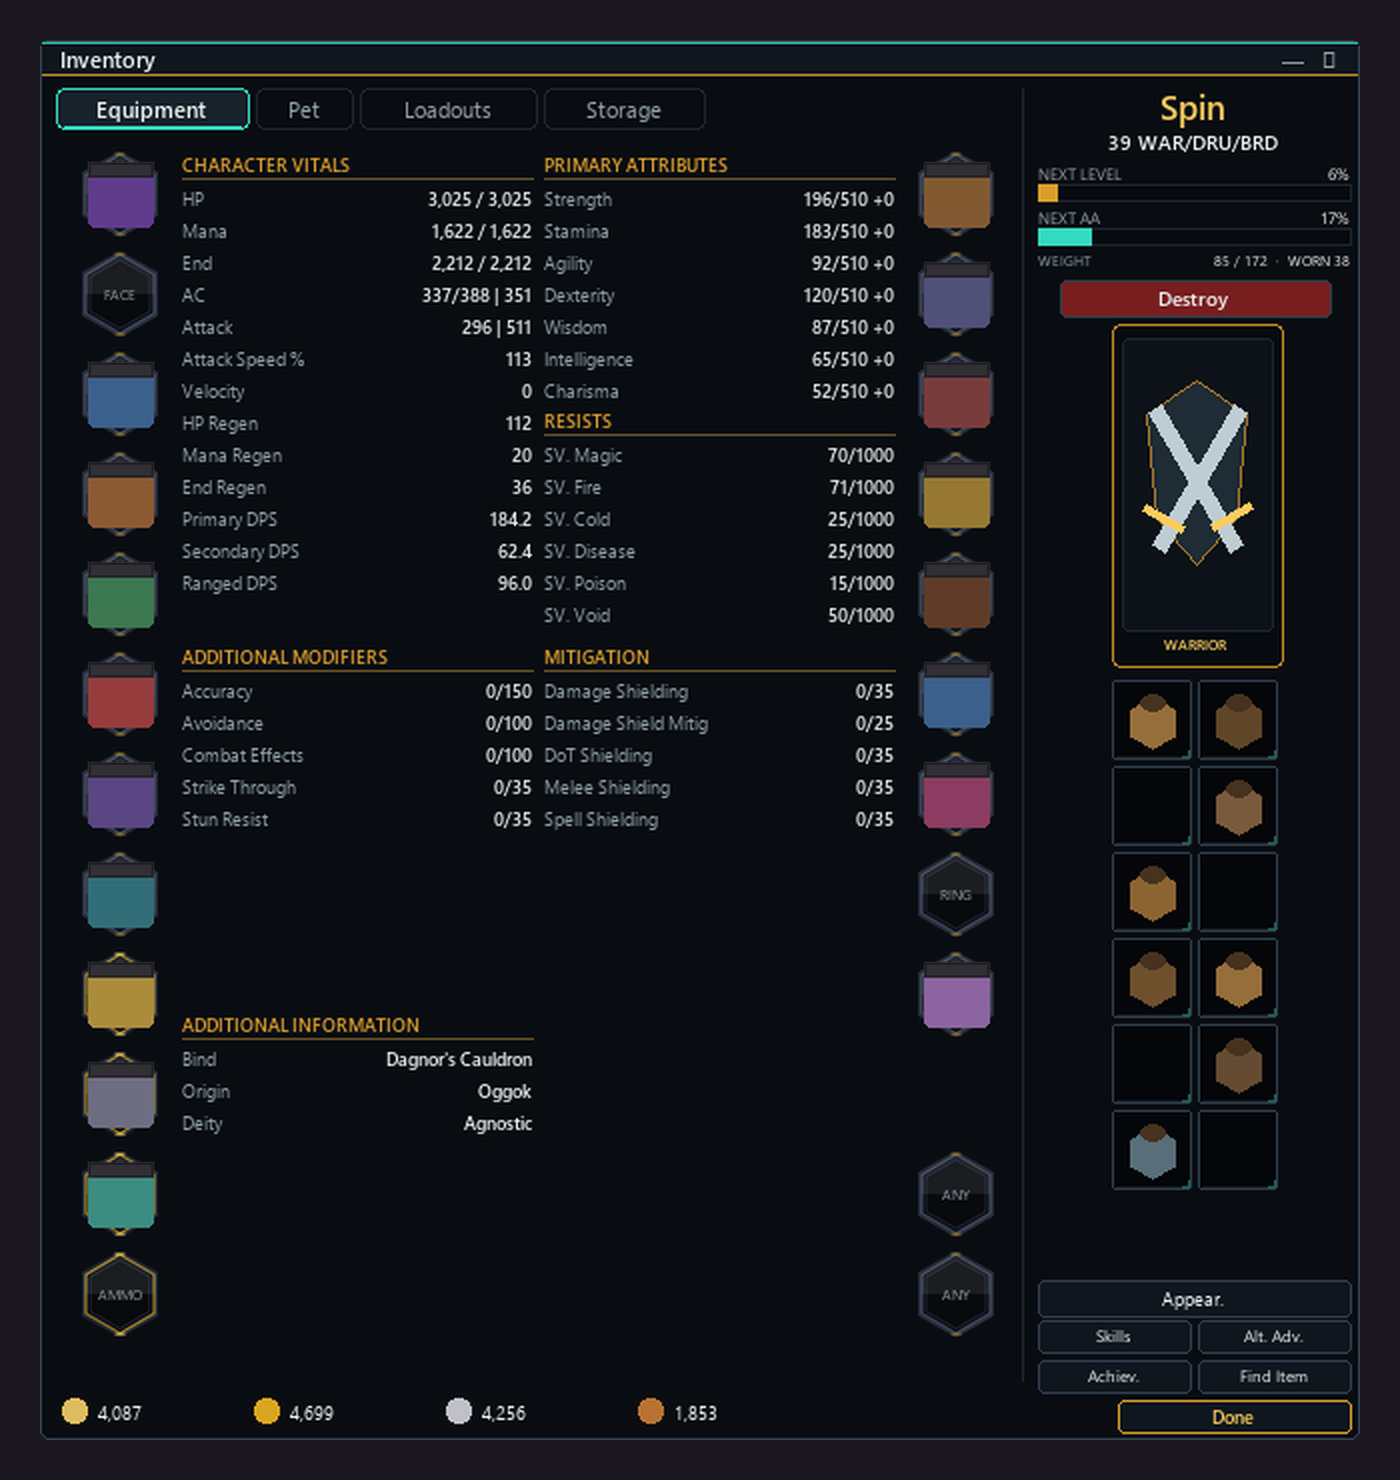
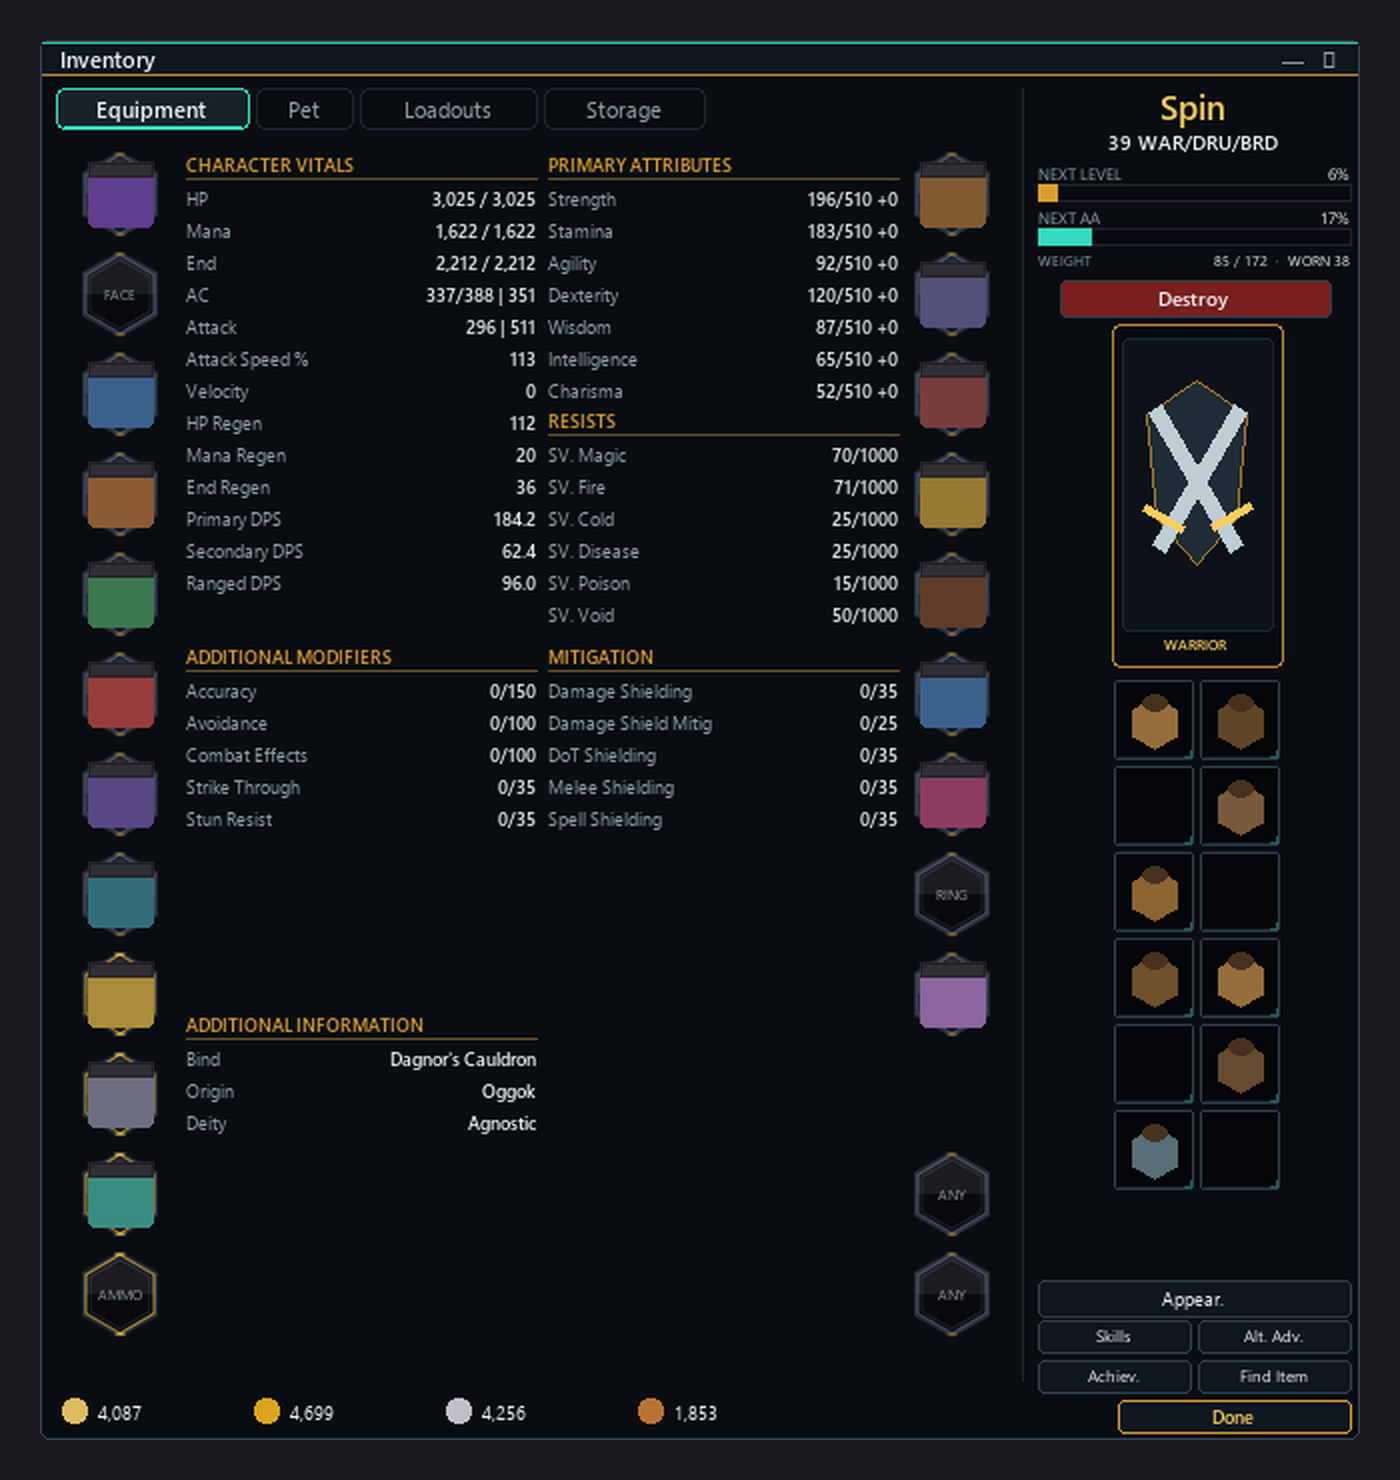
Refine inventory rail alignment

diff --git a/tools/audit_spinui.py b/tools/audit_spinui.py
@@ -346,8 +346,6 @@ def audit_inventory_geometry() -> None:
 
     if (child_int(class_anim, "Size/CX"), child_int(class_anim, "Size/CY")) != (75, 142):
         fail("native class artwork must remain 75x142")
-    if (child_int(view, "Size/CX"), child_int(view, "Size/CY")) != (85, 171):
-        fail("class artwork viewport must remain 85x171")
     if child_int(window, "Size/CX") != 660 or child_int(window, "Size/CY") != 700:
         fail("inventory window must remain 660x700")
     host_width = (
@@ -389,10 +387,14 @@ def audit_inventory_geometry() -> None:
         fail("bag rail exceeds the tightened inventory frame")
 
     # v3 rails: 12-position columns on 46px plates at pitch 50, slots inset 3.
-    from restyle_inventory import (ANY_ROW, BAGS, CREST, LEFT_RAIL,
-                                   PAGE, PAGE_LOCATION, PITCH, PLATE,
-                                   RIGHT_RAIL, SLOT_INSET, STATS1, STATS2,
-                                   STATS3, WEAPON_ROW, slot_pos)
+    from restyle_inventory import (ANY_ROW, BAGS, BAG_GRID_WIDTH, CANVAS,
+                                   CREST, CREST_SIZE, LEFT_RAIL, L_X, PAGE,
+                                   PAGE_LOCATION, PITCH, PLATE, RIGHT_RAIL,
+                                   R_X, SLOT_INSET, STATS1, STATS2, STATS3,
+                                   WEAPON_ROW, slot_pos)
+
+    if (child_int(view, "Size/CX"), child_int(view, "Size/CY")) != CREST_SIZE:
+        fail(f"class artwork viewport must remain {CREST_SIZE[0]}x{CREST_SIZE[1]}")
 
     page_geometry = (
         child_int(page, "Location/X"), child_int(page, "Location/Y"),
@@ -408,8 +410,10 @@ def audit_inventory_geometry() -> None:
     )
     if bag_geometry != BAGS:
         fail(f"bag rail left its class-card alignment: {bag_geometry}")
-    if child_int(bags, "Location/X") != child_int(view, "Location/X"):
-        fail("bag columns must share the class crest's left edge")
+    bag_center2 = 2 * child_int(bags, "Location/X") + BAG_GRID_WIDTH
+    crest_center2 = 2 * child_int(view, "Location/X") + CREST_SIZE[0]
+    if bag_center2 != crest_center2:
+        fail("visible bag columns must center directly under the class crest")
     if (child_int(view, "Location/X"), child_int(view, "Location/Y")) != CREST:
         fail("class crest left its identity-rail anchor")
     expected_slot_groups = {
@@ -426,6 +430,15 @@ def audit_inventory_geometry() -> None:
     }
     if actual_slot_groups != expected_slot_groups:
         fail(f"equipment rail ordering changed: {actual_slot_groups}")
+
+    ledger_left_gap = STATS1[0] - (L_X + PLATE)
+    ledger_right_gap = R_X - (STATS1[0] + STATS1[2])
+    right_canvas_margin = CANVAS[0] - (R_X + PLATE)
+    if (ledger_left_gap, ledger_right_gap, right_canvas_margin) != (10, 4, 6):
+        fail(
+            "equipment rail/ledger spacing changed: "
+            f"{ledger_left_gap}/{ledger_right_gap}/{right_canvas_margin}"
+        )
 
     for group_name, slot_ids in actual_slot_groups.items():
         positions = [slot_pos(slot_id)[0][1] for slot_id in slot_ids]

diff --git a/tools/render_equipment_preview.py b/tools/render_equipment_preview.py
@@ -12,10 +12,10 @@ from PIL import Image, ImageDraw, ImageFont
 
 REPO = Path(__file__).resolve().parent.parent
 sys.path.insert(0, str(REPO / "tools"))
-from restyle_inventory import (ANY_ROW, BAGS, CREST, LEFT_RAIL,  # noqa: E402
-                               PAGE_LOCATION, PLATE, RIGHT_RAIL, SLOT_INSET,
-                               STATS1, STATS2, STATS3, WEAPON_ROW, WINDOW,
-                               slot_pos)
+from restyle_inventory import (ANY_ROW, BAGS, BAG_SLOT_SIZE, BAG_SPACING,  # noqa: E402
+                               CREST, CREST_SIZE, LEFT_RAIL, PAGE_LOCATION,
+                               PLATE, RIGHT_RAIL, SLOT_INSET, STATS1, STATS2,
+                               STATS3, WEAPON_ROW, WINDOW, slot_pos)
 from spinui_theme import (BG1, BG2, CYAN, GOLD, GOLD_BRIGHT, LINE, LINE_SOFT,
                           TEXT, TEXT_DIM)
 
@@ -114,7 +114,7 @@ def main():
     # Native-proportion live class emblem on the rail. EQ supplies this artwork
     # at runtime; crossed blades represent the Warrior variant in this preview.
     cx, cy = CREST
-    d.rounded_rectangle([cx, cy, cx + 85, cy + 171], radius=4,
+    d.rounded_rectangle([cx, cy, cx + CREST_SIZE[0], cy + CREST_SIZE[1]], radius=4,
                         fill=(7, 11, 15, 255), outline=GOLD + (220,))
     d.rounded_rectangle([cx + 5, cy + 7, cx + 80, cy + 153], radius=3,
                         fill=(12, 18, 24, 255), outline=LINE_SOFT + (255,))
@@ -133,9 +133,9 @@ def main():
                None, (110, 80, 45), (150, 110, 60), None, (100, 75, 50),
                (88, 110, 120), None]
     for i in range(12):
-        bx = BAGS[0] + (i % 2) * 43
-        by = BAGS[1] + (i // 2) * 43
-        img.alpha_composite(slots_img.resize((40, 40)), (bx, by))
+        bx = BAGS[0] + (i % 2) * (BAG_SLOT_SIZE + BAG_SPACING)
+        by = BAGS[1] + (i // 2) * (BAG_SLOT_SIZE + BAG_SPACING)
+        img.alpha_composite(slots_img.resize((BAG_SLOT_SIZE, BAG_SLOT_SIZE)), (bx, by))
         if bagcols[i]:
             d.polygon([(bx + 20, by + 7), (bx + 31, by + 15), (bx + 31, by + 28),
                        (bx + 20, by + 34), (bx + 9, by + 28), (bx + 9, by + 15)],

diff --git a/tools/restyle_inventory.py b/tools/restyle_inventory.py
@@ -42,9 +42,13 @@ ANY_ROW = [0, 21]                               # IS_ANY1 / IS_ANY2 — right ra
 PITCH = 50
 PLATE = 46
 SLOT_INSET = 3
-L_X, R_X = 4, 422
+L_X, R_X = 4, 420
 RAIL_Y = 4
 ANY_GAP_ROWS = 1          # empty rail positions between jewelry and the Any pair
+BAG_SLOT_SIZE = 40
+BAG_SPACING = 3
+BAG_GRID_WIDTH = 2 * BAG_SLOT_SIZE + BAG_SPACING
+CREST_SIZE = (85, 171)
 
 # retained for tools/render_equipment_preview.py compatibility
 W_Y = RAIL_Y + 8 * PITCH  # first weapon plate y (left rail, position 8)
@@ -54,11 +58,11 @@ CANVAS = (472, 606)
 PAGE = (485, 620)
 PAGE_LOCATION = (5, 22)        # centers the 485px page inside the 495px tab host
 WINDOW = (660, 700)
-STATS1 = (58, 6, 356, 238)     # Vitals + break | attributes + Resists (15 pieces each)
-STATS2 = (58, 252, 356, 94)    # Additional Modifiers | Mitigation (6 rows each)
-STATS3 = (58, 436, 356, 62)    # Lower-rail anchor: Bind / Origin / Deity
+STATS1 = (60, 6, 356, 238)     # Vitals + break | attributes + Resists (15 pieces each)
+STATS2 = (60, 252, 356, 94)    # Additional Modifiers | Mitigation (6 rows each)
+STATS3 = (60, 436, 356, 62)    # Lower-rail anchor: Bind / Origin / Deity
 CREST = (536, 142)             # window-level identity-rail crest (85x171)
-BAGS = (536, 320)              # visible bag columns align with the class crest
+BAGS = (537, 320)              # visible 83px bag grid centers under the 85px crest
 LEDGER_HEADER_GOLD = (219, 158, 42)
 
 